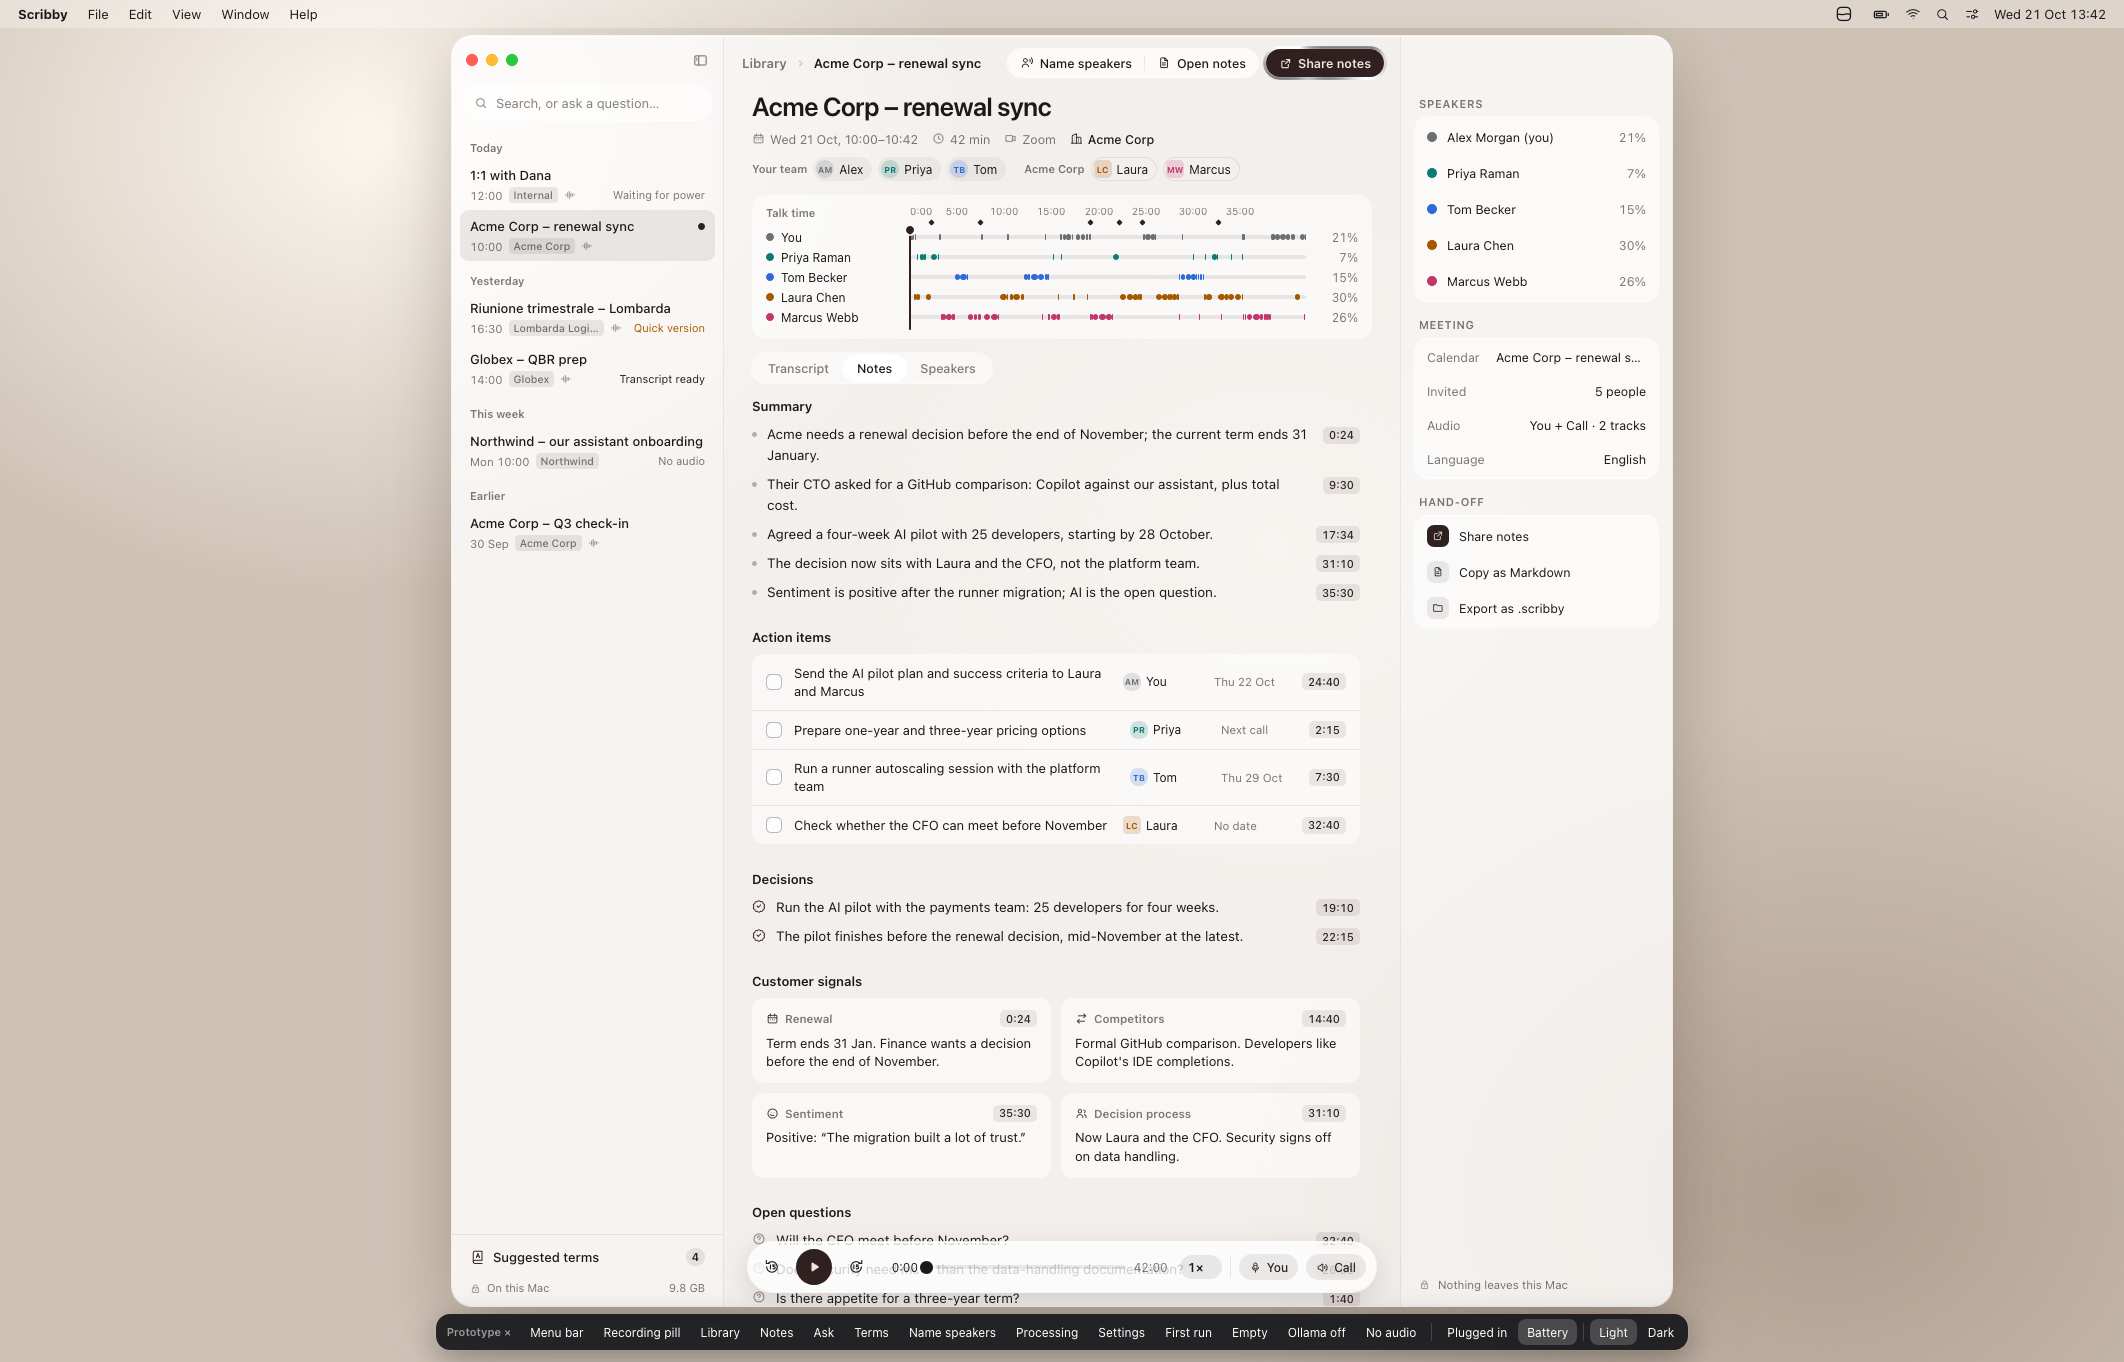
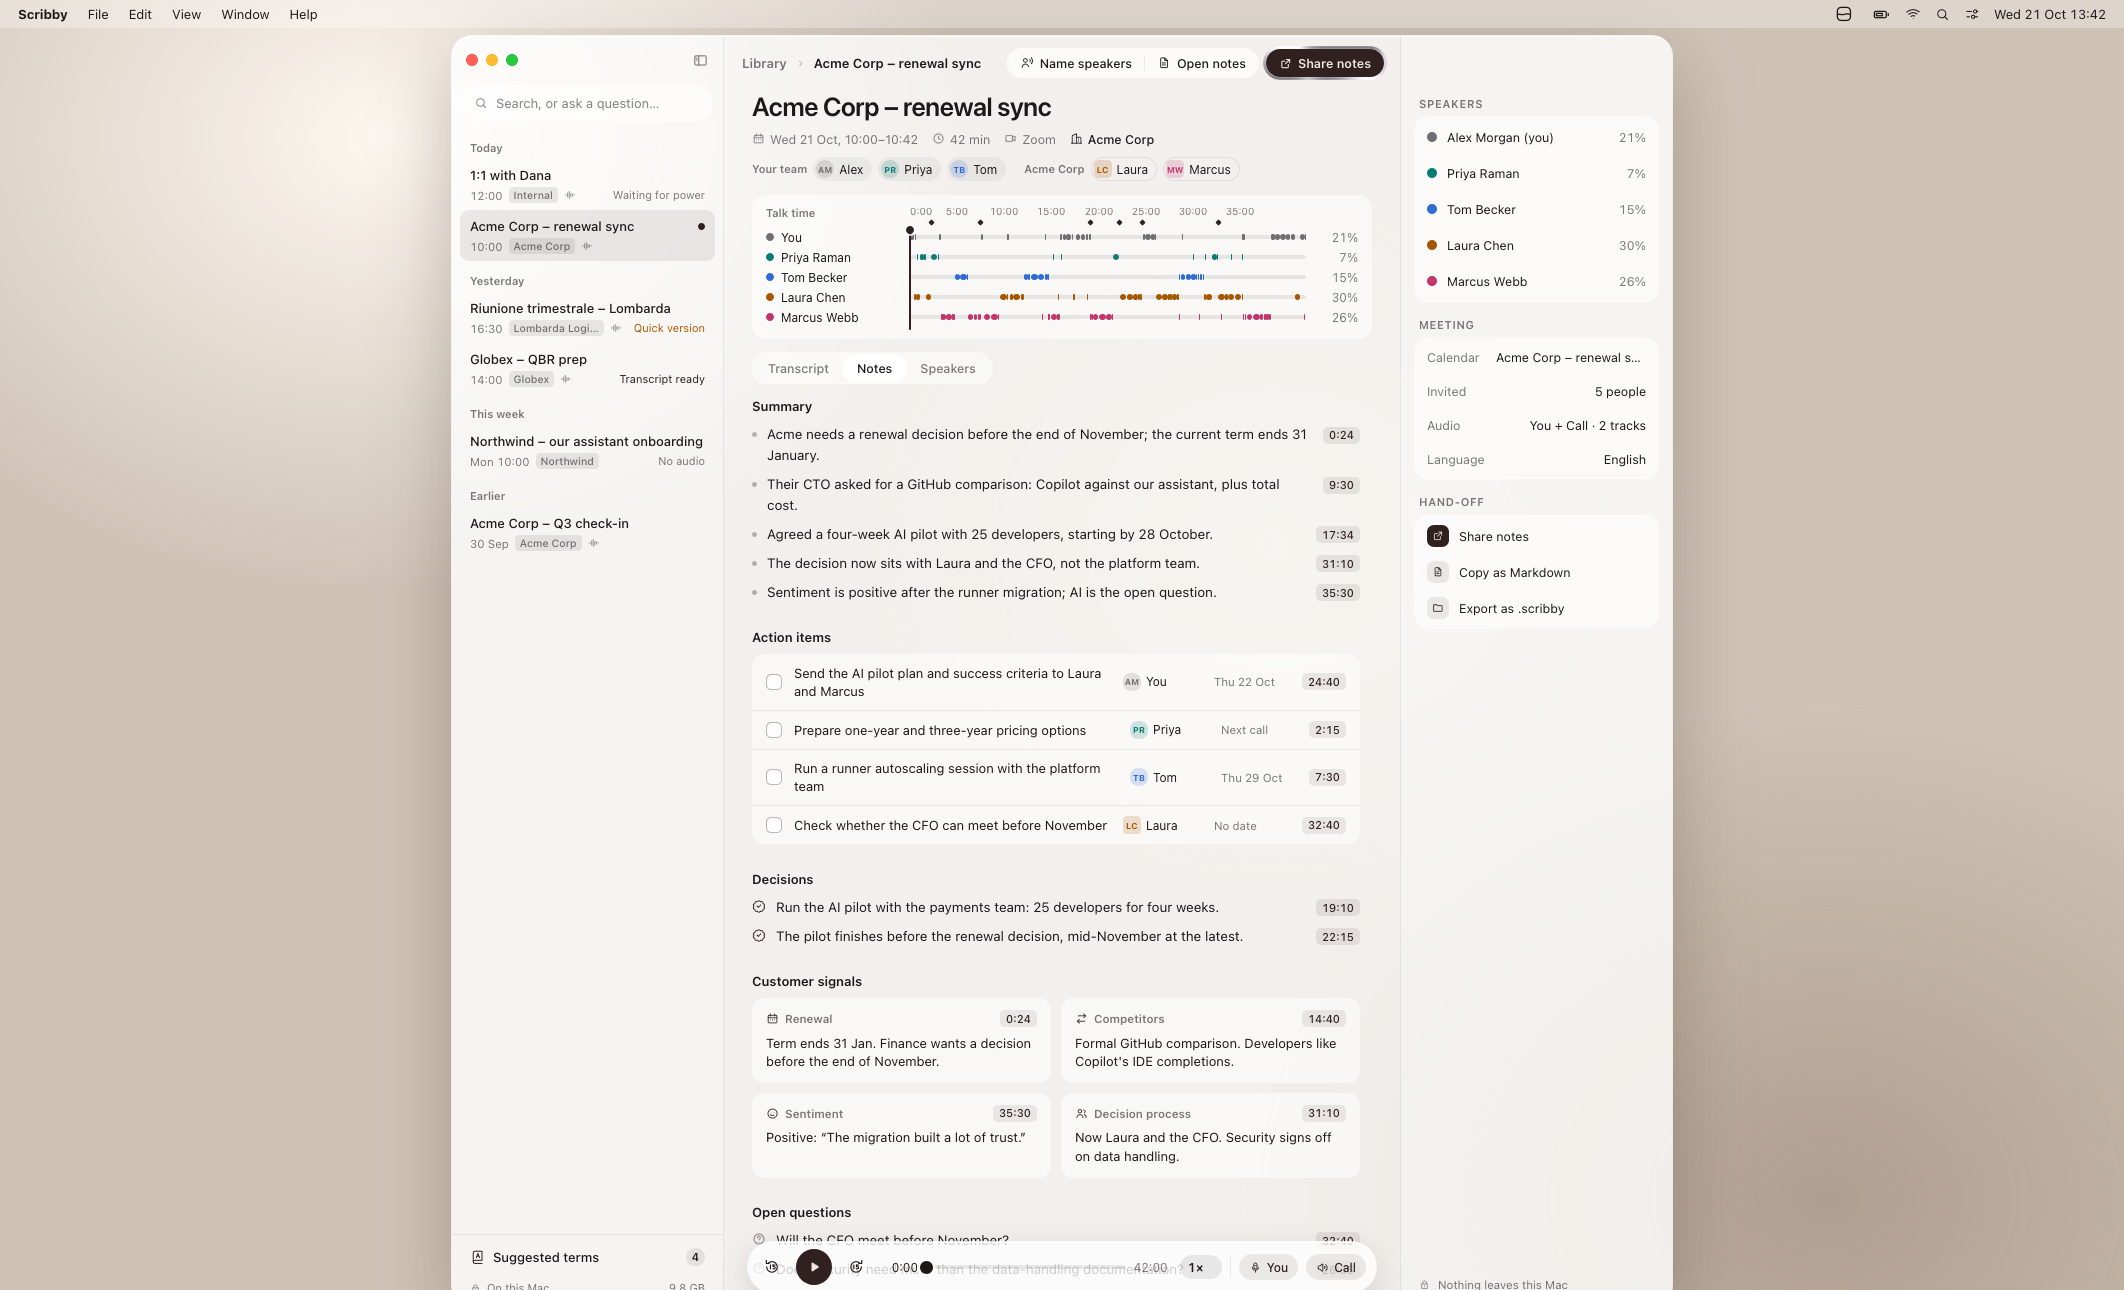
Crop prototype controls from Scribby image files

diff --git a/building-scribby.html b/building-scribby.html
@@ -38,18 +38,18 @@
 <p>Keeping processing local does not make recording a private decision. People on the call need to know that it is happening and why. In some customer meetings recording has already been agreed upfront, so I can let Scribby start with the call. Otherwise I ask on the call and start it myself only after we have agreed. If recording is not appropriate, I leave it off.</p>
 <div class="recording-rule"><strong>Agreement before capture</strong><p>That is how I use Scribby, not a claim that running an app on a laptop removes data-protection obligations. The <a href="https://www.dataprotection.ie/en/individuals/know-your-rights/right-be-informed-transparency-article-13-14-gdpr">Irish Data Protection Commission's transparency guidance</a> explains why people must be told how their data is being used; its guidance also distinguishes consent from other possible lawful bases.</p></div>
 <p>The local choice matters <em>after</em> that conversation. The audio and notes can stay on the Mac instead of being sent to another transcription or AI service. If I later email or share the notes, that is a separate, deliberate step.</p>
-<figure class="render render--app"><a href="assets/handoff/v3-03-recording-pill-popover-clean.svg" target="_blank" rel="noopener noreferrer" aria-label="Open full-size Scribby prototype without presentation controls"><img src="assets/handoff/v3-03-recording-pill-popover.png" alt="High-resolution Scribby prototype showing the recording pill, a red Stop button, separate You and Call meters, and the menu bar popover." width="2124" height="1362" loading="lazy"></a><figcaption><span class="evidence-label">High-resolution interface prototype · fictional meeting</span>The recording state is visible in the menu bar and pill, with a clear Stop control. This is a design render, not a real customer call.</figcaption></figure></section>
+<figure class="render render--app"><a href="assets/handoff/v3-03-recording-pill-popover.png?v=2" target="_blank" rel="noopener noreferrer" aria-label="Open full-size Scribby prototype without presentation controls"><img src="assets/handoff/v3-03-recording-pill-popover.png?v=2" alt="High-resolution Scribby prototype showing the recording pill, a red Stop button, separate You and Call meters, and the menu bar popover." width="2124" height="1290" loading="lazy"></a><figcaption><span class="evidence-label">High-resolution interface prototype · fictional meeting</span>The recording state is visible in the menu bar and pill, with a clear Stop control. This is a design render, not a real customer call.</figcaption></figure></section>
 <section id="working"><p class="stage-mark">03 / The write-up</p><h2>What it does while I get on with my day.</h2>
 <p>Scribby captures my microphone and the Mac's call audio as separate tracks. That sounds like a small detail, but it gives the rest of the system a cleaner starting point: my voice is already distinct from the people on the other side. When the call ends, the app transcribes it, works out who spoke when, and drafts a summary, decisions, open questions and action items with owners.</p>
 <p>Speaker names can come from the calendar invite, from voices Scribby has learned, or from people addressing each other. It will not always get them right. I can correct a name, listen back at a timestamp, and decide what the final note should say. The transcript is evidence; the generated note is a draft I can inspect.</p>
 <div class="flow" role="list" aria-label="Scribby's local meeting workflow"><div role="listitem"><b>01</b><strong>Record</strong><span>Two tracks, with prior agreement.</span></div><div role="listitem"><b>02</b><strong>Transcribe</strong><span>Speech and speaker turns on the Mac.</span></div><div role="listitem"><b>03</b><strong>Write up</strong><span>Decisions, questions and owners.</span></div><div role="listitem"><b>04</b><strong>Check &amp; share</strong><span>Review first; export when useful.</span></div></div>
 <p class="flow-note">The workflow is local until I choose a hand-off destination.</p>
-<figure class="render render--app"><a href="assets/handoff/v3-01-library-notes-clean.svg" target="_blank" rel="noopener noreferrer" aria-label="Open full-size Scribby prototype without presentation controls"><img src="assets/handoff/v3-01-library-notes.png" alt="High-resolution Scribby Library prototype showing a meeting timeline, summary, named action items, decisions, open questions and hand-off options." width="2124" height="1362" loading="lazy"></a><figcaption><span class="evidence-label">High-resolution Library prototype · fictional data</span>A note is useful when the decision, the owner and the moment in the call stay connected.</figcaption></figure>
+<figure class="render render--app"><a href="assets/handoff/v3-01-library-notes.png?v=2" target="_blank" rel="noopener noreferrer" aria-label="Open full-size Scribby prototype without presentation controls"><img src="assets/handoff/v3-01-library-notes.png?v=2" alt="High-resolution Scribby Library prototype showing a meeting timeline, summary, named action items, decisions, open questions and hand-off options." width="2124" height="1290" loading="lazy"></a><figcaption><span class="evidence-label">High-resolution Library prototype · fictional data</span>A note is useful when the decision, the owner and the moment in the call stay connected.</figcaption></figure>
 <p>For one 41-minute call, the draft note took about two minutes on my laptop. That is an example from my testing, not a promise for every Mac or meeting. The models are downloaded once and run on-device; the download is substantial, roughly 17 GB in this build.</p></section>
 <section id="finding"><p class="stage-mark">04 / Afterward</p><h2>Will I find it in three weeks?</h2>
 <p>This question changed the product more than the first transcript did. I can send notes to Apple Notes, email them, copy Markdown, or export the meeting as a <code>.scribby</code> file. Those are different ways of making the result useful outside Scribby, but I still wanted to be able to come back to the original conversation.</p>
 <p>Quick find is deliberately plain: type a word or a person's name and see the matching lines across meetings. Ask Scribby is for the less literal question: “What did we decide about the pilot?” It answers from the meetings it finds and shows where the answer came from. I can follow a source back to the transcript rather than trusting a neat paragraph on its own.</p>
-<figure class="render render--app"><a href="assets/handoff/v3-05-ask-clean.svg" target="_blank" rel="noopener noreferrer" aria-label="Open full-size Scribby prototype without presentation controls"><img src="assets/handoff/v3-05-ask.png" alt="High-resolution Ask Scribby prototype showing an answer and numbered source excerpts from sample meetings." width="2124" height="1362" loading="lazy"></a><figcaption><span class="evidence-label">High-resolution Ask prototype · fictional data</span>The answer is accompanied by source excerpts, timestamps and links back to the meeting.</figcaption></figure>
+<figure class="render render--app"><a href="assets/handoff/v3-05-ask.png?v=2" target="_blank" rel="noopener noreferrer" aria-label="Open full-size Scribby prototype without presentation controls"><img src="assets/handoff/v3-05-ask.png?v=2" alt="High-resolution Ask Scribby prototype showing an answer and numbered source excerpts from sample meetings." width="2124" height="1290" loading="lazy"></a><figcaption><span class="evidence-label">High-resolution Ask prototype · fictional data</span>The answer is accompanied by source excerpts, timestamps and links back to the meeting.</figcaption></figure>
 <p>Raycast is usually how I get around my Mac, so I built an integration instead of making myself open another window first. Search Meetings, Open Library, Ask Scribby, and Start or Stop Recording are the four commands I reach for. It came from a very simple bit of feedback: I kept reaching for Raycast anyway.</p>
 <p>I built macOS widgets for the same reason. The small one shows the next meeting and a Record control; the medium one keeps today’s meetings and their status in view; the large one brings back the last call, including its action items. They make Scribby present where I already look, without asking me to live in its Library.</p>
 <figure class="integration-illustration integration-illustration--raycast"><div class="integration-stage"><div class="integration-illustration__raycast" aria-label="Focused illustration of the Scribby commands shown in Raycast"><div class="integration-illustration__label">RAYCAST / SCRIBBY</div><div class="integration-illustration__search"><span aria-hidden="true">⌕</span> scribby</div><div class="integration-illustration__result"><span class="integration-illustration__glyph">●</span><div><strong>Start or Stop Recording</strong><small>Once recording has been agreed</small></div><kbd>↵</kbd></div><div class="integration-illustration__result"><span class="integration-illustration__glyph">S</span><div><strong>Search Meetings</strong><small>Find the conversation</small></div><kbd>↵</kbd></div><div class="integration-illustration__result"><span class="integration-illustration__glyph">≡</span><div><strong>Open Library</strong><small>Return to the notes</small></div><kbd>↵</kbd></div><div class="integration-illustration__result"><span class="integration-illustration__glyph">?</span><div><strong>Ask Scribby</strong><small>Ask across meetings</small></div><kbd>↵</kbd></div></div></div><figcaption><span class="evidence-label">Focused redraw of the actual Raycast command list</span>The four names match the installed integration. The supplied screenshot also showed unrelated local files, so this illustration keeps the article on Scribby.</figcaption></figure>
